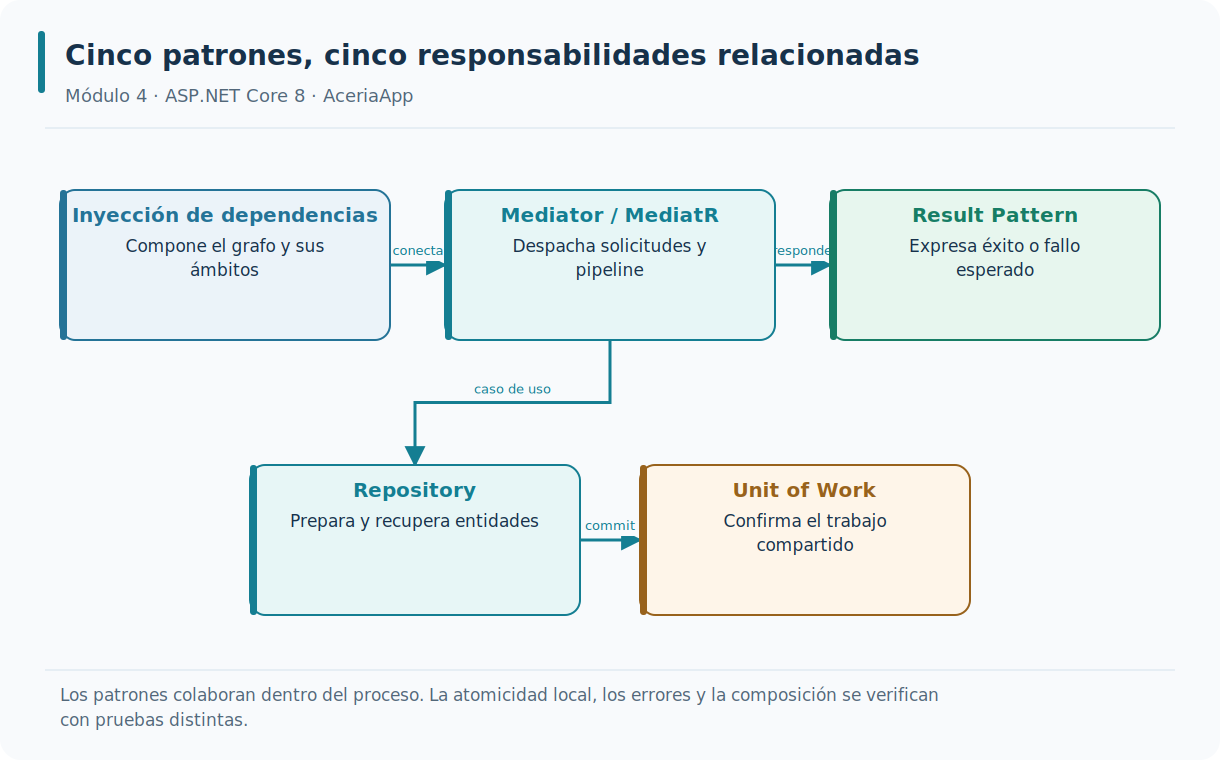
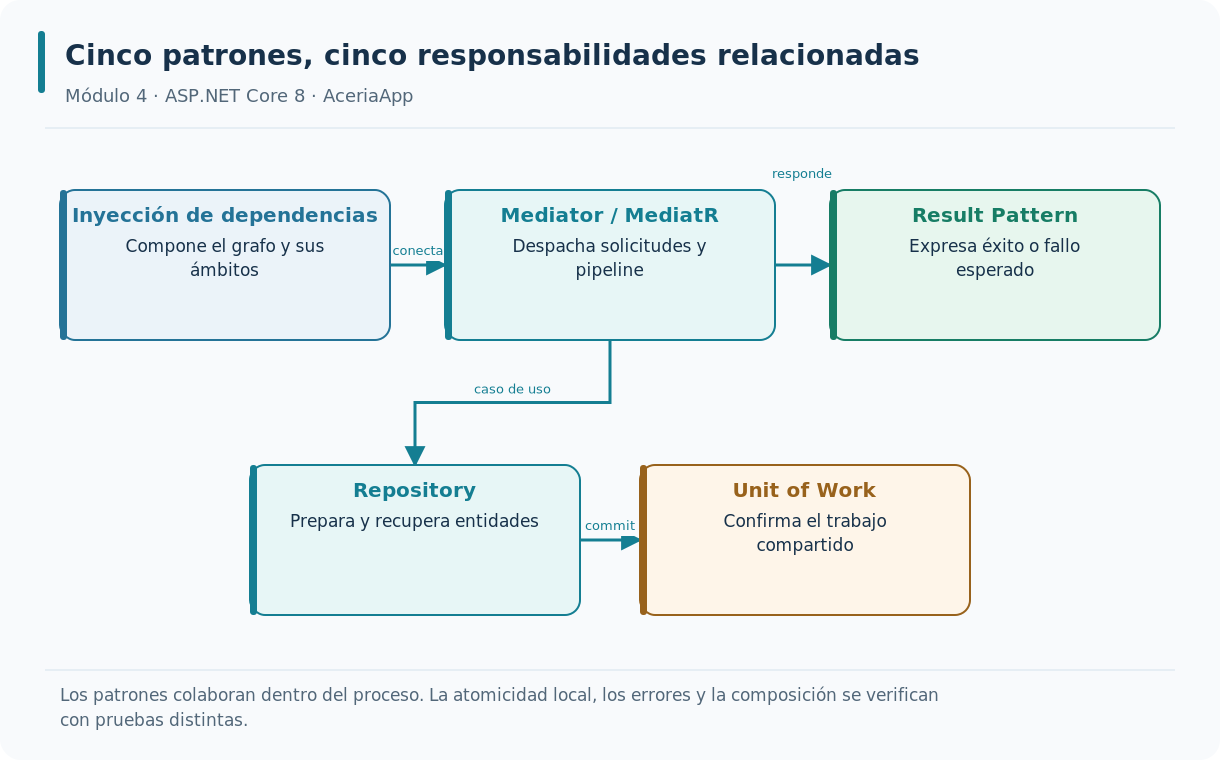
fix: ejecutar LocalDB en ruta corta con identidad de codigo comprobada

diff --git a/.github/scripts/comprobar_localdb_http.py b/.github/scripts/comprobar_localdb_http.py
@@ -5,6 +5,8 @@ import json
 import os
 from pathlib import Path
 import socket
+import shutil
+import tempfile
 import subprocess
 import sys
 import time
@@ -37,6 +39,12 @@ def sql(action, databases=''):
     if databases: command += ['-Databases', databases]
     return subprocess.check_output(command, text=True, encoding='utf-8').strip()
 
+def prepare_execution_stage(source, target):
+    shutil.copytree(source, target, ignore=shutil.ignore_patterns('bin', 'obj', 'TestResults', '.vs'))
+    if source_manifest(target) != source_manifest(source):
+        raise ValueError('La copia de ejecución cambió el código reconstruido')
+    return target
+
 def main():
     parser = argparse.ArgumentParser()
     parser.add_argument('--modulo', type=int, choices=FINAL, required=True)
@@ -50,6 +58,7 @@ def main():
     logs.mkdir(parents=True, exist_ok=True)
     process = None
     stream = None
+    workspace = None
     env = dict(os.environ, ASPNETCORE_ENVIRONMENT='Development', DOTNET_NOLOGO='true', DOTNET_PROCESSOR_COUNT='1')
     for key, database in databases.items():
         env['ConnectionStrings__' + key] = f'Server=(localdb)\\MSSQLLocalDB;Database={database};Trusted_Connection=True;TrustServerCertificate=True'
@@ -80,8 +89,12 @@ def main():
         if sys.platform != 'win32': raise RuntimeError('Esta comprobacion exige Windows y LocalDB')
         result['motor'] = json.loads(sql('info'))
         reconstruct_through(module)
-        result['codigo_normalizado_sha256'] = source_manifest(ROOT / FINAL[module])
-        subprocess.run(['dotnet', 'build', str(api / 'AceriaApp.Api.csproj'), '-c', 'Release', '-m:1'], cwd=api, env=env, check=True)
+        workspace = tempfile.TemporaryDirectory(prefix=f'axia{module}-', dir=os.environ.get('RUNNER_TEMP'))
+        executed = prepare_execution_stage(ROOT / FINAL[module], Path(workspace.name) / 'etapa')
+        api = executed / 'src/AceriaApp.Api'
+        result['codigo_normalizado_sha256'] = source_manifest(executed)
+        result['ruta_ejecucion_corta'] = str(executed)
+        subprocess.run(['dotnet', 'build', str(api / 'AceriaApp.Api.csproj'), '-c', 'Release', '-m:1', '--disable-build-servers'], cwd=api, env=env, check=True)
         base = start(1)
         routes = ['/api/v1/ordenes']
         if module >= 3: routes.append('/api/v1/hexagonal/ordenes')
@@ -122,6 +135,7 @@ def main():
         if sys.platform == 'win32':
             try: sql('drop', ','.join(databases.values())); result['limpieza'] = 'PASS'
             except Exception as exc: result.update(resultado='FAIL', error_limpieza=str(exc))
+        if workspace: workspace.cleanup()
         out = ROOT / 'docs/validacion-sqlserver' / f'M{module:02}_LOCALDB_RESULTADOS.json'
         out.parent.mkdir(parents=True, exist_ok=True)
         out.write_text(json.dumps(result, ensure_ascii=False, indent=2) + '\n', encoding='utf-8')

diff --git a/.github/scripts/m04_crear_figuras.py b/.github/scripts/m04_crear_figuras.py
@@ -35,7 +35,7 @@ def card(n):
  a.append(lines(x+w/2,detail_y,n['detail'],w-35,17,NAVY,step=24))
  return ''.join(a)
 
-def connector(ns,src,dst,label='',color='teal',side=None,dash=False):
+def connector(ns,src,dst,label='',color='teal',side=None,dash=False,label_y=None):
  a,b=ns[src],ns[dst]
  ax,ay=a['x']+a['w']/2,a['y']+a['h']/2
  bx,by=b['x']+b['w']/2,b['y']+b['h']/2
@@ -47,6 +47,7 @@ def connector(ns,src,dst,label='',color='teal',side=None,dash=False):
   x1=a['x']+a['w'] if bx>ax else a['x'];y1=ay;x2=b['x'] if bx>ax else b['x']+b['w'];y2=by
   mid=(x1+x2)/2;path=f'M{x1},{y1} H{mid} V{y2} H{x2}'
   lx=mid;ly=(y1+y2)/2-10
+ if label_y is not None:ly=label_y
  stroke=COL[color][0]
  s=f'<path d="{path}" fill="none" stroke="{stroke}" stroke-width="3" marker-end="url(#{color})"'+(' stroke-dasharray="8 6"' if dash else '')+'/>'
  if label:
@@ -115,7 +116,7 @@ for name,config in FIGURES.items():
 
 # General map: five roles and their semantic relationships, not five stages of every request.
 general=dict(title='Cinco patrones, cinco responsabilidades relacionadas',subtitle='Módulo 4 · ASP.NET Core 8 · AceriaApp',nodes=[
- N('di','Inyección de dependencias','Compone el grafo y sus ámbitos',60,190,330,150,'blue'),N('med','Mediator / MediatR','Despacha solicitudes y pipeline',445,190,330,150,'teal'),N('result','Result Pattern','Expresa éxito o fallo esperado',830,190,330,150,'green'),N('repo','Repository','Prepara y recupera entidades',250,465,330,150,'teal'),N('uow','Unit of Work','Confirma el trabajo compartido',640,465,330,150,'gold')],edges=[('di','med','conecta'),('med','result','responde'),('med','repo','caso de uso'),('repo','uow','commit')],footer='Los patrones colaboran dentro del proceso. La atomicidad local, los errores y la composición se verifican con pruebas distintas.')
+ N('di','Inyección de dependencias','Compone el grafo y sus ámbitos',60,190,330,150,'blue'),N('med','Mediator / MediatR','Despacha solicitudes y pipeline',445,190,330,150,'teal'),N('result','Result Pattern','Expresa éxito o fallo esperado',830,190,330,150,'green'),N('repo','Repository','Prepara y recupera entidades',250,465,330,150,'teal'),N('uow','Unit of Work','Confirma el trabajo compartido',640,465,330,150,'gold')],edges=[('di','med','conecta'),('med','result','responde','teal',None,False,178),('med','repo','caso de uso'),('repo','uow','commit')],footer='Los patrones colaboran dentro del proceso. La atomicidad local, los errores y la composición se verifican con pruebas distintas.')
 svg=draw(**general);folder=ROOT/'GRAFICOS';folder.mkdir(parents=True,exist_ok=True)
 target=folder/'patrones_arquitectura.svg';target.write_text(svg,encoding='utf-8');cairosvg.svg2png(bytestring=svg.encode(),write_to=str(target.with_suffix('.png')))
 print('patrones_arquitectura')

diff --git a/.github/tests/test_localdb_execution_copy.py b/.github/tests/test_localdb_execution_copy.py
@@ -1,0 +1,21 @@
+import importlib.util
+from pathlib import Path
+import sys
+import tempfile
+import unittest
+SCRIPTS=Path(__file__).resolve().parents[1]/'scripts'
+sys.path.insert(0,str(SCRIPTS))
+spec=importlib.util.spec_from_file_location('localdb_http',SCRIPTS/'comprobar_localdb_http.py')
+m=importlib.util.module_from_spec(spec);spec.loader.exec_module(m)
+class ExecutionCopyTests(unittest.TestCase):
+    def test_copia_corta_conserva_codigo_y_no_reutiliza_binarios(self):
+        with tempfile.TemporaryDirectory() as tmp:
+            root=Path(tmp);source=root/'nombre-de-repositorio-muy-largo'/'etapa';target=root/'corta'
+            (source/'src/Api/bin').mkdir(parents=True)
+            (source/'src/Api/Program.cs').write_text('class Program {}\n')
+            (source/'src/Api/bin/obsoleto.dll').write_text('anterior')
+            actual=m.prepare_execution_stage(source,target)
+            self.assertEqual(actual,target)
+            self.assertEqual(m.source_manifest(actual),m.source_manifest(source))
+            self.assertFalse((actual/'src/Api/bin').exists())
+if __name__=='__main__':unittest.main()
